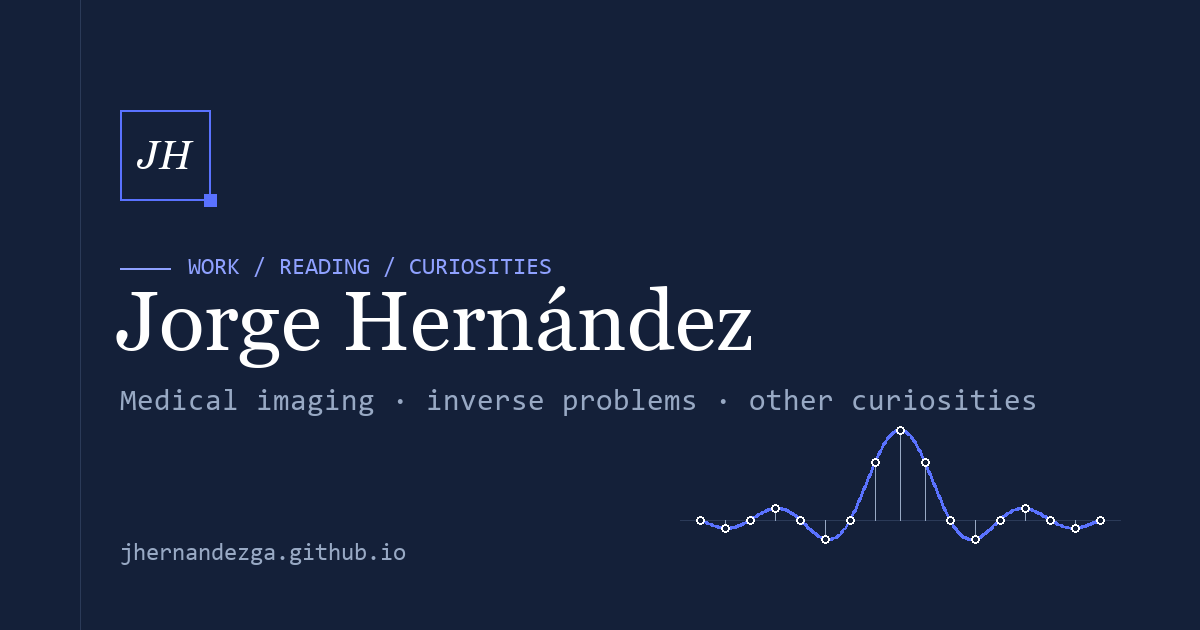
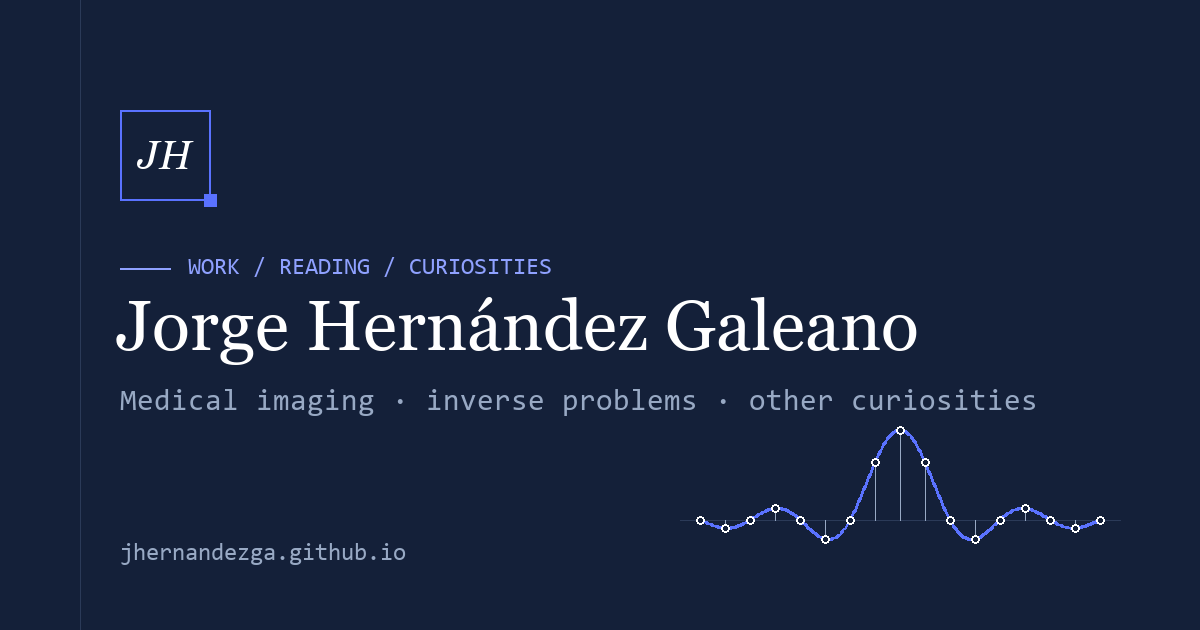
math animations

Changed region(s): [[0.0925, 0.4524, 0.7708, 0.6032]]

diff --git a/assets/js/site.js b/assets/js/site.js
@@ -72,6 +72,171 @@ if (collection) {
   reset();
 }
 
+// Home: the samples appear one by one, left to right, before the curve reconstructs through them.
+document.querySelectorAll('.signal-samples').forEach(group => {
+  const x = node => Number(node.getAttribute('cx') || node.getAttribute('x1'));
+  [...group.children].sort((a, b) => x(a) - x(b)).forEach((node, i) => {
+    node.style.animationDelay = `${0.2 + i * 0.035}s`;
+  });
+});
+
+// Page headings: a small signal drawn once per visit, one per section.
+const traces = document.querySelectorAll('[data-trace]');
+if (traces.length) {
+  const reduce = window.matchMedia('(prefers-reduced-motion: reduce)').matches;
+  const NS = 'http://www.w3.org/2000/svg';
+  const W = 600, MID = 42, AMP = 30;
+  const node = (parent, name, attrs) => {
+    const n = document.createElementNS(NS, name);
+    Object.entries(attrs).forEach(([k, v]) => n.setAttribute(k, v));
+    parent.append(n);
+    return n;
+  };
+  const toPath = points => 'M' + points.map(([x, y]) => `${x.toFixed(1)} ${y.toFixed(1)}`).join('L');
+  const plot = (f, n = 300) => Array.from({ length: n + 1 }, (_, i) => [i / n * W, MID - AMP * f(i / n)]);
+  const ease = p => 1 - Math.pow(1 - p, 3);
+  const animate = (duration, frame, delay = 0) => {
+    if (reduce) return frame(1);
+    frame(0);
+    const start = performance.now() + delay;
+    const tick = now => {
+      const p = Math.min(1, Math.max(0, (now - start) / duration));
+      frame(p);
+      if (p < 1) requestAnimationFrame(tick);
+    };
+    requestAnimationFrame(tick);
+  };
+  let seed = 11;
+  const noise = () => (seed = seed * 16807 % 2147483647) / 2147483647 - 0.5;
+
+  const scenes = {
+    // The logistic map's bifurcation diagram: one stable value, then 2, 4, 8… then chaos.
+    chaos(svg) {
+      const cols = 300, r0 = 2.6, r1 = 4;
+      const columns = Array.from({ length: cols }, (_, c) => {
+        const r = r0 + (r1 - r0) * c / cols;
+        let x = 0.5;
+        for (let i = 0; i < 300; i++) x = r * x * (1 - x);
+        const ys = new Set();
+        for (let i = 0; i < 60; i++) { x = r * x * (1 - x); ys.add(Math.round((80 - 76 * x) * 2) / 2); }
+        const px = (c / cols * W).toFixed(1);
+        return { r, d: [...ys].map(y => `M${px} ${y}h1`).join('') };
+      });
+      const readout = node(svg, 'text', { class: 'trace-readout', x: W, y: -6, 'text-anchor': 'end' });
+      let drawn = 0;
+      animate(3200, p => {
+        const upto = Math.round(p * cols);
+        if (upto > drawn) {
+          node(svg, 'path', { class: 'trace-dots', d: columns.slice(drawn, upto).map(c => c.d).join('') });
+          drawn = upto;
+        }
+        readout.textContent = `r = ${columns[Math.min(cols - 1, Math.max(0, upto - 1))].r.toFixed(2)}`;
+      });
+    },
+    // Certainty spreading into surprise: a distribution over 16 symbols and its entropy in bits.
+    entropy(svg) {
+      const n = 16, gap = 8, bw = (W - gap * (n - 1)) / n;
+      const bars = Array.from({ length: n }, (_, i) => node(svg, 'rect', { class: 'trace-bar', x: (i * (bw + gap)).toFixed(1), width: bw.toFixed(1), y: 80, height: 0 }));
+      const readout = node(svg, 'text', { class: 'trace-readout', x: W, y: 12, 'text-anchor': 'end' });
+      animate(2600, p => {
+        const s = 0.12 + 2.1 * ease(p);
+        const w = bars.map((_, i) => Math.exp(-((i - 7) ** 2) / (2 * s * s)));
+        const z = w.reduce((a, b) => a + b);
+        const probs = w.map(v => v / z);
+        probs.forEach((q, i) => {
+          const h = 70 * q;
+          bars[i].setAttribute('y', (80 - h).toFixed(1));
+          bars[i].setAttribute('height', h.toFixed(1));
+        });
+        const bits = -probs.reduce((a, q) => a + (q > 1e-9 ? q * Math.log2(q) : 0), 0);
+        readout.textContent = `H = ${Math.abs(bits).toFixed(2)} bits`;
+      }, 300);
+    },
+    // Bayes: a prior, then the data's likelihood, then the posterior that settles between them.
+    bayes(svg) {
+      const gauss = (m, s) => x => Math.exp(-((x - m) ** 2) / (2 * s * s)) / (s * Math.sqrt(2 * Math.PI));
+      const prior = { m: -1, s: 0.8 }, like = { m: 1, s: 0.55 };
+      const v = 1 / (1 / prior.s ** 2 + 1 / like.s ** 2);
+      const post = { m: v * (prior.m / prior.s ** 2 + like.m / like.s ** 2), s: Math.sqrt(v) };
+      const X = x => (x + 3) / 6 * W, top = gauss(0, post.s)(0);
+      const curve = ({ m, s }) => toPath(Array.from({ length: 241 }, (_, i) => { const x = -3 + 6 * i / 240; return [X(x), 80 - 70 * gauss(m, s)(x) / top]; }));
+      const label = (cls, { m, s }) => node(svg, 'text', { class: `trace-label ${cls}`, x: X(m).toFixed(1), y: (80 - 70 * gauss(m, s)(m) / top - 6).toFixed(1), 'text-anchor': 'middle' });
+      const priorLine = node(svg, 'path', { class: 'trace-soft is-strong', d: curve(prior), pathLength: 1 });
+      const likeLine = node(svg, 'path', { class: 'trace-like', d: curve(like), pathLength: 1 });
+      const postLine = node(svg, 'path', { class: 'trace-line' });
+      const labels = [label('', prior), label('', like), label('is-accent', post)];
+      [priorLine, likeLine].forEach(l => { l.style.strokeDasharray = 1; });
+      const stage = (p, a, b) => ease(Math.min(1, Math.max(0, (p - a) / (b - a))));
+      animate(3000, p => {
+        priorLine.style.strokeDashoffset = 1 - stage(p, 0, 0.3);
+        likeLine.style.strokeDashoffset = 1 - stage(p, 0.25, 0.55);
+        const k = stage(p, 0.55, 1);
+        postLine.setAttribute('d', k > 0 ? curve({ m: prior.m + (post.m - prior.m) * k, s: prior.s + (post.s - prior.s) * k }) : '');
+        labels[0].textContent = p > 0.18 ? 'p(x)' : '';
+        labels[1].textContent = p > 0.45 ? 'p(y | x)' : '';
+        labels[2].textContent = p >= 1 ? 'p(x | y)' : '';
+      });
+    },
+    // Gradient descent on a curve with two minima: where you start decides where you arrive.
+    descent(svg) {
+      const f = x => 0.35 * x * x + 0.45 * Math.sin(2.6 * x);
+      const df = x => 0.7 * x + 1.17 * Math.cos(2.6 * x);
+      const X = x => (x + 3) / 6 * W, Y = x => 76 - (f(x) + 0.4) / 4.1 * 70;
+      node(svg, 'path', { class: 'trace-soft', d: toPath(Array.from({ length: 241 }, (_, i) => { const x = -3 + 6 * i / 240; return [X(x), Y(x)]; })) });
+      [[-2.7, 'trace-dot'], [2.8, 'trace-dot is-muted']].forEach(([x0, cls], run) => {
+        const steps = [x0];
+        for (let k = 0; k < 9; k++) steps.push(steps[k] - 0.35 * df(steps[k]));
+        const trail = node(svg, 'path', { class: `trace-trail${run ? ' is-muted' : ''}` });
+        const dot = node(svg, 'circle', { class: cls, r: 4 });
+        animate(2400, p => {
+          const k = Math.min(steps.length - 1, Math.floor(ease(p) * steps.length));
+          trail.setAttribute('d', toPath(steps.slice(0, k + 1).map(x => [X(x), Y(x)])));
+          dot.setAttribute('cx', X(steps[k]).toFixed(1));
+          dot.setAttribute('cy', Y(steps[k]).toFixed(1));
+        }, run * 350);
+      });
+    },
+    // A blurred, noisy measurement resolving into the signal behind it.
+    inverse(svg) {
+      const n = 240;
+      const x = Array.from({ length: n + 1 }, (_, i) => {
+        const u = i / n;
+        return 0.9 * Math.exp(-(((u - 0.22) / 0.045) ** 2)) + (u > 0.46 && u < 0.64 ? 0.55 : 0) - 0.6 * Math.exp(-(((u - 0.82) / 0.03) ** 2));
+      });
+      const y = x.map((_, i) => {
+        let s = 0, w = 0;
+        for (let j = -18; j <= 18; j++) {
+          const g = Math.exp(-(j * j) / 60), v = x[Math.min(n, Math.max(0, i + j))];
+          s += g * v; w += g;
+        }
+        return s / w + 0.12 * noise();
+      });
+      const at = values => values.map((v, i) => [i / n * W, MID - AMP * v]);
+      node(svg, 'path', { class: 'trace-soft', d: toPath(at(y)) });
+      const line = node(svg, 'path', { class: 'trace-line' });
+      animate(2000, p => {
+        const e = ease(p);
+        line.setAttribute('d', toPath(at(y.map((v, i) => v + (x[i] - v) * e))));
+      }, 500);
+    },
+    decay(svg) {
+      const line = node(svg, 'path', { class: 'trace-line' });
+      animate(2600, p => {
+        const a = 1 - ease(p);
+        line.setAttribute('d', toPath(plot(u => a * Math.sin(2 * Math.PI * 5 * u + 6 * p))));
+      });
+    }
+  };
+
+  // Distributions and landscapes sit on a baseline; waves oscillate around the middle.
+  const grounded = ['entropy', 'bayes', 'descent', 'chaos'];
+  traces.forEach(trace => {
+    const kind = trace.dataset.trace, scene = scenes[kind], svg = trace.querySelector('svg');
+    if (grounded.includes(kind)) svg.querySelector('.trace-axis').setAttribute('d', 'M0 80H600');
+    if (scene) scene(svg);
+  });
+}
+
 const article = document.querySelector('[data-article]');
 const toc = document.querySelector('.toc');
 if (article && toc) {

diff --git a/assets/css/site.css b/assets/css/site.css
@@ -53,8 +53,14 @@ h1,h2,h3{font-family:var(--serif);font-weight:400;line-height:1.15;letter-spacin
 
 /* Instrument panel: graph paper, a reconstructed signal, current interests */
 .interests{position:relative;padding:22px 22px 18px;border:1px solid #d3dbef;border-radius:var(--radius);align-self:stretch;display:flex;flex-direction:column;justify-content:center;background-color:#eef2fb;background-image:linear-gradient(#304bd90d 1px,transparent 1px),linear-gradient(90deg,#304bd90d 1px,transparent 1px);background-size:16px 16px;background-position:-1px -1px}
-.signal{margin:0 0 22px}.signal svg{display:block;width:100%;height:auto;overflow:visible}.signal-axis{stroke:#9fb0dc;stroke-width:1;stroke-dasharray:2 3}.signal-curve{fill:none;stroke:var(--blue);stroke-width:1.4;stroke-linejoin:round;stroke-dasharray:1;stroke-dashoffset:1;animation:reconstruct 2.6s var(--ease) .5s forwards}.signal-samples line{stroke:var(--ink);stroke-width:1}.signal-samples circle{fill:var(--canvas);stroke:var(--ink);stroke-width:1}.signal figcaption{margin-top:10px;font-family:var(--mono);font-size:.6875rem;color:#596b98;letter-spacing:.02em}
+.signal{margin:0 0 22px}.signal svg{display:block;width:100%;height:auto;overflow:visible}.signal-axis{stroke:#9fb0dc;stroke-width:1;stroke-dasharray:2 3}.signal-curve{fill:none;stroke:var(--blue);stroke-width:1.4;stroke-linejoin:round;stroke-dasharray:1;stroke-dashoffset:1;animation:reconstruct 2.4s var(--ease) 1.1s forwards}.signal-samples line{stroke:var(--ink);stroke-width:1}.signal-samples circle{fill:var(--canvas);stroke:var(--ink);stroke-width:1}.signal figcaption{margin-top:10px;font-family:var(--mono);font-size:.6875rem;color:#596b98;letter-spacing:.02em}
 @keyframes reconstruct{to{stroke-dashoffset:0}}
+.js .signal-samples line,.js .signal-samples circle{opacity:0;transform-box:fill-box;animation:sample-in .4s var(--ease) forwards}
+@keyframes sample-in{from{opacity:0;transform:translateY(-6px)}to{opacity:1;transform:none}}
+.trace{margin:26px 0 0;max-width:560px}.trace svg{display:block;width:100%;height:auto;overflow:visible}.trace figcaption{margin-top:6px;font-family:var(--mono);font-size:.6875rem;letter-spacing:.02em;color:var(--faint)}
+.trace-axis{stroke:var(--rule);stroke-width:1;stroke-dasharray:2 4;fill:none}.trace-line{fill:none;stroke:var(--blue);stroke-width:1.5;stroke-linejoin:round;stroke-linecap:round}.trace-soft{fill:none;stroke:var(--faint);stroke-width:1;opacity:.45}
+.trace-soft.is-strong{opacity:.9;stroke-width:1.2}.trace-like{fill:none;stroke:var(--blue);stroke-width:1.2;opacity:.45}.trace-bar{fill:var(--blue);opacity:.8}.trace-dots{fill:none;stroke:var(--blue);stroke-width:1.1;stroke-linecap:round;opacity:.7}.trace-readout{font-family:var(--mono);font-size:12px;fill:var(--blue)}.trace-label{font-family:var(--mono);font-size:11px;fill:var(--muted)}.trace-label.is-accent{fill:var(--blue)}
+.trace-trail{fill:none;stroke:var(--blue);stroke-width:1;stroke-dasharray:3 3}.trace-trail.is-muted{stroke:var(--faint)}.trace-dot{fill:var(--canvas);stroke:var(--blue);stroke-width:1.5}.trace-dot.is-muted{stroke:var(--faint)}
 .interests h2{font-family:var(--mono);font-size:.6875rem;font-weight:500;text-transform:uppercase;letter-spacing:.14em;color:#596b98;margin:0 0 6px}.interests ol{list-style:none;padding:0;margin:0}.interests li{display:flex;gap:14px;font-size:.9375rem;line-height:1.5;padding:11px 0;border-top:1px solid #cdd7ed}.interest-number{font-size:.75rem;color:var(--blue);margin-top:2px;font-family:var(--mono)}
 
 /* Sections */
@@ -121,5 +127,5 @@ h1,h2,h3{font-family:var(--serif);font-weight:400;line-height:1.15;letter-spacin
 @media(min-width:1600px){.hero{grid-template-columns:1fr 300px;gap:65px}.hero h1{font-size:4.4rem}.collection-grid{grid-template-columns:repeat(4,minmax(0,1fr))}.collection-card{padding:26px}.collection-card p{margin-right:0}.card-arrow{display:none}}
 @media(max-width:1120px){:root{--rail:230px}.sidebar{padding-inline:17px}.hero{grid-template-columns:1fr}.interests{display:block;padding:22px}.signal{max-width:420px}.interests ol{display:flex;gap:24px;flex-wrap:wrap}.interests li{border-top:0;padding:7px 0}.heading-row{grid-template-columns:1fr;gap:32px}.fragment.marginal{max-width:560px}.about-grid{grid-template-columns:1fr}.profile-panel{max-width:520px}.article-layout{grid-template-columns:1fr}.toc{position:static;grid-row:1}.hero h1{font-size:3.35rem}}
 @media(max-width:760px){:root{--rail:0px}.sidebar{position:relative;width:100%;padding:18px 20px;display:grid;grid-template-columns:1fr auto;overflow:visible;background-image:none}.brand-name{font-size:1.05rem}.monogram{width:36px;height:36px;font-size:1rem}.sidebar-role,.sidebar-bottom{display:none}.menu-button{display:flex;align-items:center;gap:8px;padding:9px 12px;background:transparent;color:white;border:1px solid #46536b;border-radius:var(--radius);font-family:var(--mono);font-size:.8125rem;min-height:44px}.menu-button[aria-expanded="true"]{border-color:#8fa1ff}#site-navigation{grid-column:1/-1;padding-top:23px}.js #site-navigation{display:none}.js #site-navigation.open{display:block}.nav-group{margin-bottom:18px}.workspace{margin-left:0}.topbar{min-height:65px;padding:13px 20px;gap:12px}.breadcrumbs .current{max-width:40vw}.language-switch{font-size:.75rem}main{padding:32px 20px 55px;min-height:65vh}.hero{padding:7px 0 34px;gap:27px}.hero h1{font-size:clamp(2.4rem,9vw,3.35rem)}.hero-intro{font-size:1rem}.epigraph{font-size:1.1rem}.interests ol{display:block}.interests li{border-top:1px solid #cdd7ed;padding:12px 0}.interests li:last-child{padding-bottom:0}.collection-grid,.entry-grid{grid-template-columns:1fr}.collection-section,.recent-section{margin-top:34px}.section-heading h2{font-size:1.5rem}.collection-card{padding:24px}.card-top{margin-bottom:18px}.collection-card p{max-width:45ch}.collection-controls{flex-direction:column;gap:12px}.collection-controls select{max-width:none;width:100%}.empty-state{padding:28px}.page-heading{margin-bottom:28px}.page-heading h1{font-size:2.6rem}.page-description{font-size:1.0625rem}.about-grid{gap:30px}.site-footer{margin:0 20px;flex-direction:column;gap:6px}.objective{white-space:normal}.prior-note{right:auto;left:0}.heading-row{margin-bottom:30px}.entry-card{padding:24px}.figure-grid{grid-template-columns:repeat(2,minmax(0,1fr))}.entry-heading h1{font-size:2.4rem}.back-link{margin-bottom:25px}}
-@media(prefers-reduced-motion:reduce){*{scroll-behavior:auto!important;transition:none!important;animation:none!important}.signal-curve{stroke-dashoffset:0}}
-@media print{.sidebar,.topbar,.toc,.site-footer,.entry-actions,.back-link{display:none!important}.workspace{margin:0}main{padding:0;max-width:none}.article-layout,.about-grid{display:block}.prose a{color:inherit}.entry-heading h1{font-size:30pt}.hero{display:block}.signal-curve{stroke-dashoffset:0;animation:none}.collection-card{break-inside:avoid}}
+@media(prefers-reduced-motion:reduce){*{scroll-behavior:auto!important;transition:none!important;animation:none!important}.signal-curve{stroke-dashoffset:0}.js .signal-samples line,.js .signal-samples circle{opacity:1}}
+@media print{.sidebar,.topbar,.toc,.site-footer,.entry-actions,.back-link{display:none!important}.workspace{margin:0}main{padding:0;max-width:none}.article-layout,.about-grid{display:block}.prose a{color:inherit}.entry-heading h1{font-size:30pt}.hero{display:block}.signal-curve{stroke-dashoffset:0;animation:none}.js .signal-samples line,.js .signal-samples circle{opacity:1;animation:none}.trace{display:none}.collection-card{break-inside:avoid}}

diff --git a/_layouts/about.html b/_layouts/about.html
@@ -2,6 +2,6 @@
 layout: default
 ---
 {% assign t = site.data.labels[page.lang] %}{% assign bio = site.data.profile[page.lang] %}
-<div class="heading-row"><section class="page-heading"><p class="eyebrow">{{ t.profile }}</p><h1>{{ page.title }}</h1><p class="page-description">{{ page.description | default: bio.role }}</p></section>
+<div class="heading-row"><section class="page-heading"><p class="eyebrow">{{ t.profile }}</p><h1>{{ page.title }}</h1><p class="page-description">{{ page.description | default: bio.role }}</p>{% include trace.html kind='inverse' %}</section>
 {% include fragment.html key='about' class='marginal' %}</div>
 <div class="about-grid"><article class="prose"><p class="about-intro">{{ bio.introduction }}</p>{{ content }}</article><aside class="profile-panel">{% if site.data.profile.photo %}<figure class="portrait"><img src="{{ site.data.profile.photo | relative_url }}" alt="{{ bio.photo_alt }}" width="600" height="800"></figure>{% else %}<span class="large-monogram">{{ site.data.profile.initials }}</span>{% endif %}<h2>{{ site.data.profile.name }}</h2><p class="full-name">{{ site.data.profile.full_name }}</p><p>{{ bio.role }}</p><div class="profile-links"><a href="{{ site.data.profile.github }}">GitHub ↗</a>{% if site.data.profile.medium != '' %}<a href="{{ site.data.profile.medium }}">Medium ↗</a>{% endif %}</div><div class="cv-block"><h3>CV</h3>{% if bio.cv != '' %}<a class="button" href="{{ bio.cv | relative_url }}">{{ t.download_cv }}</a>{% else %}<p>{{ t.cv_pending }}</p>{% endif %}</div></aside></div>

diff --git a/_includes/trace.html b/_includes/trace.html
@@ -1,0 +1,14 @@
+{% comment %} A small animated signal under a page heading; drawn by assets/js/site.js. {% endcomment %}
+{% assign es = false %}{% if page.lang == 'es' %}{% assign es = true %}{% endif %}
+{% case include.kind %}
+{% when 'chaos' %}{% if es %}{% assign trace_caption = 'xₙ₊₁ = r·xₙ(1 − xₙ)   · primero orden, después caos' %}{% else %}{% assign trace_caption = 'xₙ₊₁ = r·xₙ(1 − xₙ)   · order first, then chaos' %}{% endif %}
+{% when 'bayes' %}{% if es %}{% assign trace_caption = 'posterior ∝ verosimilitud × prior' %}{% else %}{% assign trace_caption = 'posterior ∝ likelihood × prior' %}{% endif %}
+{% when 'entropy' %}{% if es %}{% assign trace_caption = 'H(X) = −Σ p(x) log₂ p(x)   · de la certeza a la sorpresa' %}{% else %}{% assign trace_caption = 'H(X) = −Σ p(x) log₂ p(x)   · from certainty to surprise' %}{% endif %}
+{% when 'descent' %}{% assign trace_caption = 'xₖ₊₁ = xₖ − η f′(xₖ)' %}
+{% when 'inverse' %}{% assign trace_caption = 'y = Ax + ε  →  x̂' %}
+{% when 'decay' %}{% assign trace_caption = '‖x‖ → 0' %}
+{% endcase %}
+{% if trace_caption %}<figure class="trace" data-trace="{{ include.kind }}" aria-hidden="true">
+<svg viewBox="0 0 600 84"><path class="trace-axis" d="M0 42H600"/></svg>
+<figcaption>{{ trace_caption }}</figcaption>
+</figure>{% endif %}

diff --git a/_layouts/collection.html b/_layouts/collection.html
@@ -4,6 +4,7 @@ layout: default
 {% assign t = site.data.labels[page.lang] %}
 {% assign entries = site[page.collection_key] | where: 'lang', page.lang | sort: 'date' | reverse %}
 <div class="heading-row"><section class="page-heading"><p class="eyebrow">{{ t.collection }}</p><h1>{{ page.title }}</h1><p class="page-description">{{ page.description }}</p>
+{% case page.section %}{% when 'projects' %}{% assign kind = 'chaos' %}{% when 'publications' %}{% assign kind = 'bayes' %}{% when 'writing' %}{% assign kind = 'entropy' %}{% when 'garden' %}{% assign kind = 'descent' %}{% endcase %}{% include trace.html kind=kind %}
 {% if page.section == 'garden' %}<div class="garden-key"><span class="stage-seed">{{ t.seed }}</span><span aria-hidden="true">⟶</span><span class="stage-growing">{{ t.growing }}</span><span aria-hidden="true">⟶</span><span class="stage-evergreen">{{ t.evergreen }}</span></div>{% endif %}</section>
 {% include fragment.html key=page.section class='marginal' %}</div>
 {% if entries.size > 0 %}

diff --git a/_includes/seo.html b/_includes/seo.html
@@ -55,7 +55,7 @@
 {% if page.section == 'home' %}<script type="application/ld+json">
 {"@context": "https://schema.org", "@graph": [
 {{ person_json }},
-{"@type": "WebSite", "@id": {{ '/' | absolute_url | append: '#website' | jsonify }}, "url": {{ '/' | absolute_url | jsonify }}, "name": {{ p.name | jsonify }}, "alternateName": ["Jorge Hernandez", {{ p.full_name | jsonify }}], "inLanguage": ["en", "es"], "publisher": {"@id": {{ person_id | jsonify }}}}
+{"@type": "WebSite", "@id": {{ '/' | absolute_url | append: '#website' | jsonify }}, "url": {{ '/' | absolute_url | jsonify }}, "name": {{ p.name | jsonify }}, "alternateName": ["Jorge Hernández", "Jorge Hernandez Galeano", {{ p.full_name | jsonify }}], "inLanguage": ["en", "es"], "publisher": {"@id": {{ person_id | jsonify }}}}
 ]}
 </script>
 {% elsif page.section == 'about' %}<script type="application/ld+json">

diff --git a/404.html b/404.html
@@ -3,4 +3,4 @@ layout: default
 title: Page not found
 permalink: /404.html
 ---
-<section class="page-heading"><p class="eyebrow">404</p><h1>Page not found</h1><p class="page-description">This address may have changed.</p>{% include fragment.html key='not_found' %}<a class="button" href="{{ '/' | relative_url }}">Return home</a> <a class="inline-link" href="{{ '/es/' | relative_url }}">Ir al inicio en español</a></section>
+<section class="page-heading"><p class="eyebrow">404</p><h1>Page not found</h1><p class="page-description">This address may have changed.</p>{% include trace.html kind='decay' %}{% include fragment.html key='not_found' %}<a class="button" href="{{ '/' | relative_url }}">Return home</a> <a class="inline-link" href="{{ '/es/' | relative_url }}">Ir al inicio en español</a></section>

diff --git a/es/index.html b/es/index.html
@@ -5,5 +5,5 @@ section: home
 lang: es
 permalink: /es/
 translation: /
-description: "Trabajo, lecturas y curiosidades: un sitio personal de Jorge Hernández."
+description: "Trabajo, lecturas y curiosidades: un sitio personal de Jorge Hernández Galeano."
 ---

diff --git a/index.html b/index.html
@@ -5,5 +5,5 @@ section: home
 lang: en
 permalink: /
 translation: /es/
-description: "Work, readings and curiosities: a personal site by Jorge Hernández."
+description: "Work, readings and curiosities: a personal site by Jorge Hernández Galeano."
 ---

diff --git a/_projects/solidaria-app-es.md b/_projects/solidaria-app-es.md
@@ -1,6 +1,6 @@
 ---
 title: "Solidaria App: una red móvil de ayuda mutua"
-description: "Una app Android hecha con Flutter y Firebase para la asignatura de Programación Orientada a Objetos de la Universidad Nacional de Colombia, que conecta a personas con necesidades con quienes están dispuestos a ayudar."
+description: "Una app Android, hecha con Flutter y Firebase, que conecta a personas con necesidades con quienes están dispuestos a ayudar. Mi proyecto para la asignatura de Programación Orientada a Objetos de la Universidad Nacional de Colombia."
 lang: es
 date: 2020-07-05
 permalink: /es/proyectos/solidaria-app/
@@ -10,7 +10,9 @@ published: true
 repository: "https://github.com/jhernandezga/Proyecto-POO-Economia-Solidaria"
 ---
 
-El proyecto final de la asignatura de Programación Orientada a Objetos de la Universidad Nacional de Colombia (2020-1): una app Android, escrita en Dart con Flutter y respaldada por Firebase, que funciona como una pequeña red social para la economía solidaria. El póster del proyecto está en el [repositorio](https://github.com/jhernandezga/Proyecto-POO-Economia-Solidaria).
+En la asignatura de Programación Orientada a Objetos de la Universidad Nacional de Colombia (2020-1), cada estudiante debía plantear y desarrollar un proyecto que aplicara la programación orientada a objetos para ayudar con una problemática social. El problema, la idea y la forma de construirla quedaban a nuestra elección.
+
+Decidí trabajar sobre cómo llegaban las ayudas a las personas durante la primera cuarentena por la COVID-19, y construí Solidaria App: una app Android, escrita en Dart con Flutter y respaldada por Firebase, que funciona como una pequeña red social para la economía solidaria. El póster del proyecto está en el [repositorio](https://github.com/jhernandezga/Proyecto-POO-Economia-Solidaria).
 
 <figure>
   <img src="{{ '/assets/images/projects/solidaria/screens.jpg' | relative_url }}" alt="Cuatro capturas de pantalla: un listado de ayudas, un listado de publicaciones, un carrusel de casos y una conversación de chat." loading="lazy">
@@ -39,7 +41,7 @@ Una sola plataforma donde quienes ofrecen ayuda y quienes la necesitan puedan en
 
 ## Diseño orientado a objetos
 
-Como era el centro de la asignatura, la app partió de un modelo de clases:
+La app partió de un modelo de clases, diseñado antes que cualquier parte de la interfaz:
 
 - **`Usuario`** guarda el perfil y las acciones: publicar una ayuda, publicar una necesidad, publicar un caso, enviar un mensaje.
 - **`Publicación`** es una clase abstracta con lo que comparte cualquier publicación (identificador, título, contenido, fecha, autor). **Necesidad** y **Ayuda** la especializan; una ayuda añade datos de contacto, un subtítulo, una imagen y un contador de «me gusta».
@@ -74,7 +76,13 @@ String _createChatRoomId(String a, String b) {
   <figcaption><b>Fig. 4</b>Navegación: el <em>Wrapper</em> separa a los usuarios sin autenticación de los autenticados; la página principal lleva a las listas de ayudas y necesidades, a los casos y a los chats.</figcaption>
 </figure>
 
-El trabajo siguió una secuencia sencilla: estudiar el problema, comparar alternativas de solución, elegir una app para Android, aprender Dart, Flutter y Firebase, definir los requisitos funcionales y el modelo, y después programar, probar y corregir.
+## Cómo avanzó el trabajo
+
+1. **Problema.** Mirar cómo llegaban las ayudas a las personas durante la cuarentena, y dónde no llegaban.
+2. **Solución.** Comparar algunas alternativas y quedarme con una app para Android.
+3. **Herramientas.** Aprender Dart, Flutter y Firebase, que eran nuevos para mí.
+4. **Diseño.** Escribir los requisitos funcionales, el modelo de clases y la navegación de la app.
+5. **Construcción.** Implementar, probar y corregir; después presentarla en un póster y publicar el código.
 
 ## Resultados y aprendizajes
 

diff --git a/_projects/solidaria-app-en.md b/_projects/solidaria-app-en.md
@@ -1,6 +1,6 @@
 ---
 title: "Solidaria App: a mobile network for mutual aid"
-description: "An Android app built with Flutter and Firebase for the Object-Oriented Programming course at Universidad Nacional de Colombia, connecting people in need with people willing to help."
+description: "An Android app, built with Flutter and Firebase, that connects people in need with people willing to help. My project for the Object-Oriented Programming course at Universidad Nacional de Colombia."
 lang: en
 date: 2020-07-05
 permalink: /projects/solidaria-app/
@@ -10,7 +10,9 @@ published: true
 repository: "https://github.com/jhernandezga/Proyecto-POO-Economia-Solidaria"
 ---
 
-The final project of the Object-Oriented Programming course at Universidad Nacional de Colombia (first semester of 2020): an Android app, written in Dart with Flutter and backed by Firebase, that works as a small social network for the *economía solidaria*, the solidarity economy. The project poster is in the [repository](https://github.com/jhernandezga/Proyecto-POO-Economia-Solidaria).
+In the Object-Oriented Programming course at Universidad Nacional de Colombia (first semester of 2020), each of us had to propose and develop a project that applied object-oriented programming to help with a social problem. The problem, the idea and the way to build it were up to us.
+
+I chose to work on how help was reaching people during the first COVID-19 lockdown, and built Solidaria App: an Android app, written in Dart with Flutter and backed by Firebase, that works as a small social network for the *economía solidaria*, the solidarity economy. The project poster is in the [repository](https://github.com/jhernandezga/Proyecto-POO-Economia-Solidaria).
 
 <figure>
   <img src="{{ '/assets/images/projects/solidaria/screens.jpg' | relative_url }}" alt="Four phone screenshots: a feed of help offers, a feed of requests, a carousel of shared experiences, and a chat conversation." loading="lazy">
@@ -39,7 +41,7 @@ A single platform where people offering help and people who need it can find eac
 
 ## Object-oriented design
 
-Since this was the point of the course, the app started from a class model:
+The app started from a class model, designed before any of the interface:
 
 - **`User`** holds the profile and the actions: publish an offer, publish a need, publish a case, send a message.
 - **`Publication`** is an abstract class with what every post shares (identifier, title, content, date, author). **Need** and **Help** specialise it; an offer of help adds contact details, a subtitle, an image and a like counter.
@@ -74,7 +76,13 @@ String _createChatRoomId(String a, String b) {
   <figcaption><b>Fig. 4</b>Navigation: the <em>Wrapper</em> splits anonymous and authenticated users; the home page leads to the lists of offers and needs, the cases and the chats.</figcaption>
 </figure>
 
-The work followed a simple sequence: study the problem, compare possible solutions, choose an Android app, learn Dart, Flutter and Firebase, define the functional requirements and the model, then code, test and fix.
+## How the work went
+
+1. **Problem.** Looking at how help was reaching people during the lockdown, and where it was not.
+2. **Solution.** Comparing a few alternatives and settling on an Android app.
+3. **Tools.** Learning Dart, Flutter and Firebase, which were new to me.
+4. **Design.** Writing the functional requirements, the class model and the navigation of the app.
+5. **Build.** Implementing, testing and fixing, then presenting it in a poster and publishing the code.
 
 ## Results and lessons
 

diff --git a/README.md b/README.md
@@ -1,4 +1,4 @@
-# Jorge Hernández — personal website
+# Jorge Hernández Galeano — personal website
 
 A bilingual personal site for projects, publications, articles, and a knowledge garden. English lives at `/`; Spanish lives at `/es/`.
 
